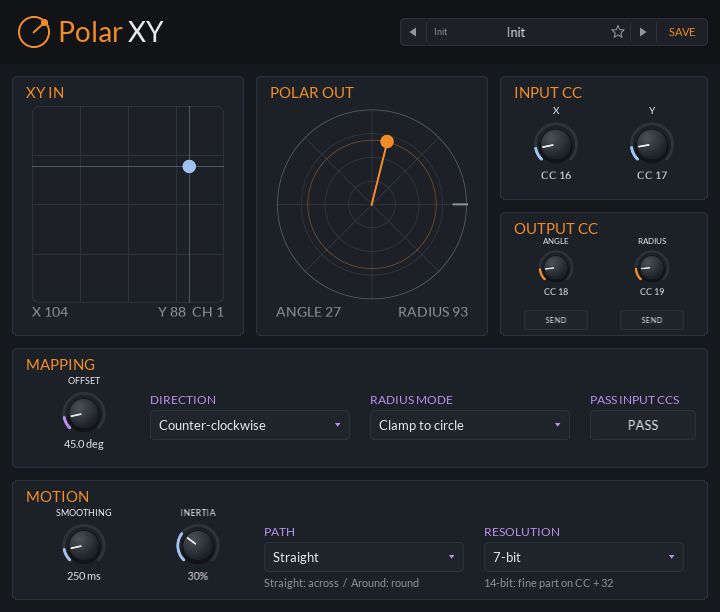
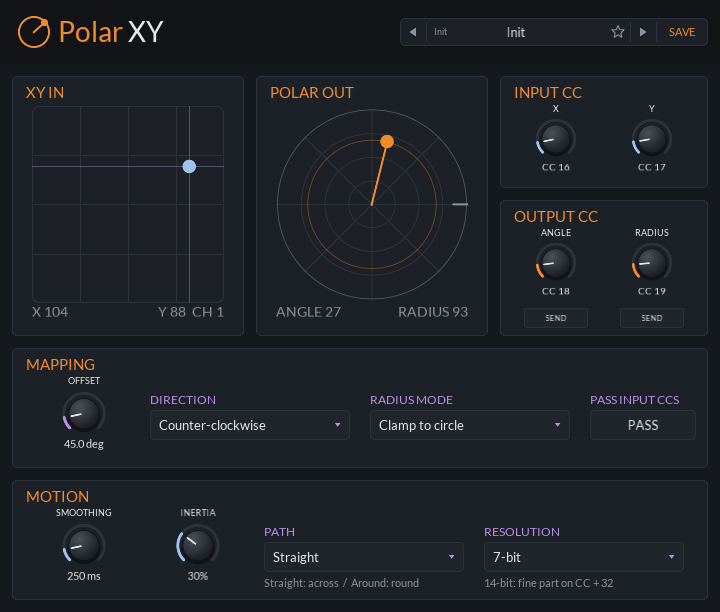
Polar XY: room for the output knobs under their title, matching the input ones
Claude-Session: https://claude.ai/code/session_01FGswf4cTNgCtM5xnEWpi7h

diff --git a/plugins/polar-xy/src/editor.cpp b/plugins/polar-xy/src/editor.cpp
@@ -51,8 +51,8 @@ public:
       presets.setCurrentName = [this](const std::string &n) { host_.setPresetName(n); };
       add<ui::Section>({12, 76, 232, 260}, "XY IN");
       add<ui::Section>({256, 76, 232, 260}, "POLAR OUT");
-      add<ui::Section>({500, 76, 208, 124}, "INPUT CC");
-      add<ui::Section>({500, 212, 208, 124}, "OUTPUT CC");
+      add<ui::Section>({500, 76, 208, 112}, "INPUT CC");
+      add<ui::Section>({500, 200, 208, 136}, "OUTPUT CC");
       add<ui::Section>({12, 348, 696, 120}, "MAPPING");
       add<ui::Section>({12, 480, 696, 120}, "MOTION");
 
@@ -72,15 +72,15 @@ public:
          axis->onEndEdit = [this] { host_.releaseInput(); };
       polar_->setIgnoresMouseEvents(true, false);
 
-      const auto in = ui::row({508, 104, 192, 92}, 2);
+      const auto in = ui::row({508, 102, 192, 84}, 2);
       knob(kParamInX, "X", kBlue, in[0]);
       knob(kParamInY, "Y", kBlue, in[1]);
-      const auto out = ui::row({508, 236, 192, 72}, 2);
+      const auto out = ui::row({508, 226, 192, 84}, 2);
       knob(kParamOutAngle, "ANGLE", kOrange, out[0]);
       knob(kParamOutRadius, "RADIUS", kOrange, out[1]);
       // Each sends its CC alone, for a MIDI learn on the receiving end.
       for (int i = 0; i < 2; ++i) {
-         auto &send = add<ui::Button>({524.0f + i * 96.0f, 310, 64, 20}, "SEND");
+         auto &send = add<ui::Button>({524.0f + i * 96.0f, 308, 64, 20}, "SEND");
          send.setAccent(kOrange);
          send.onClick = [this, i] { host_.sendOutput(i); };
       }
